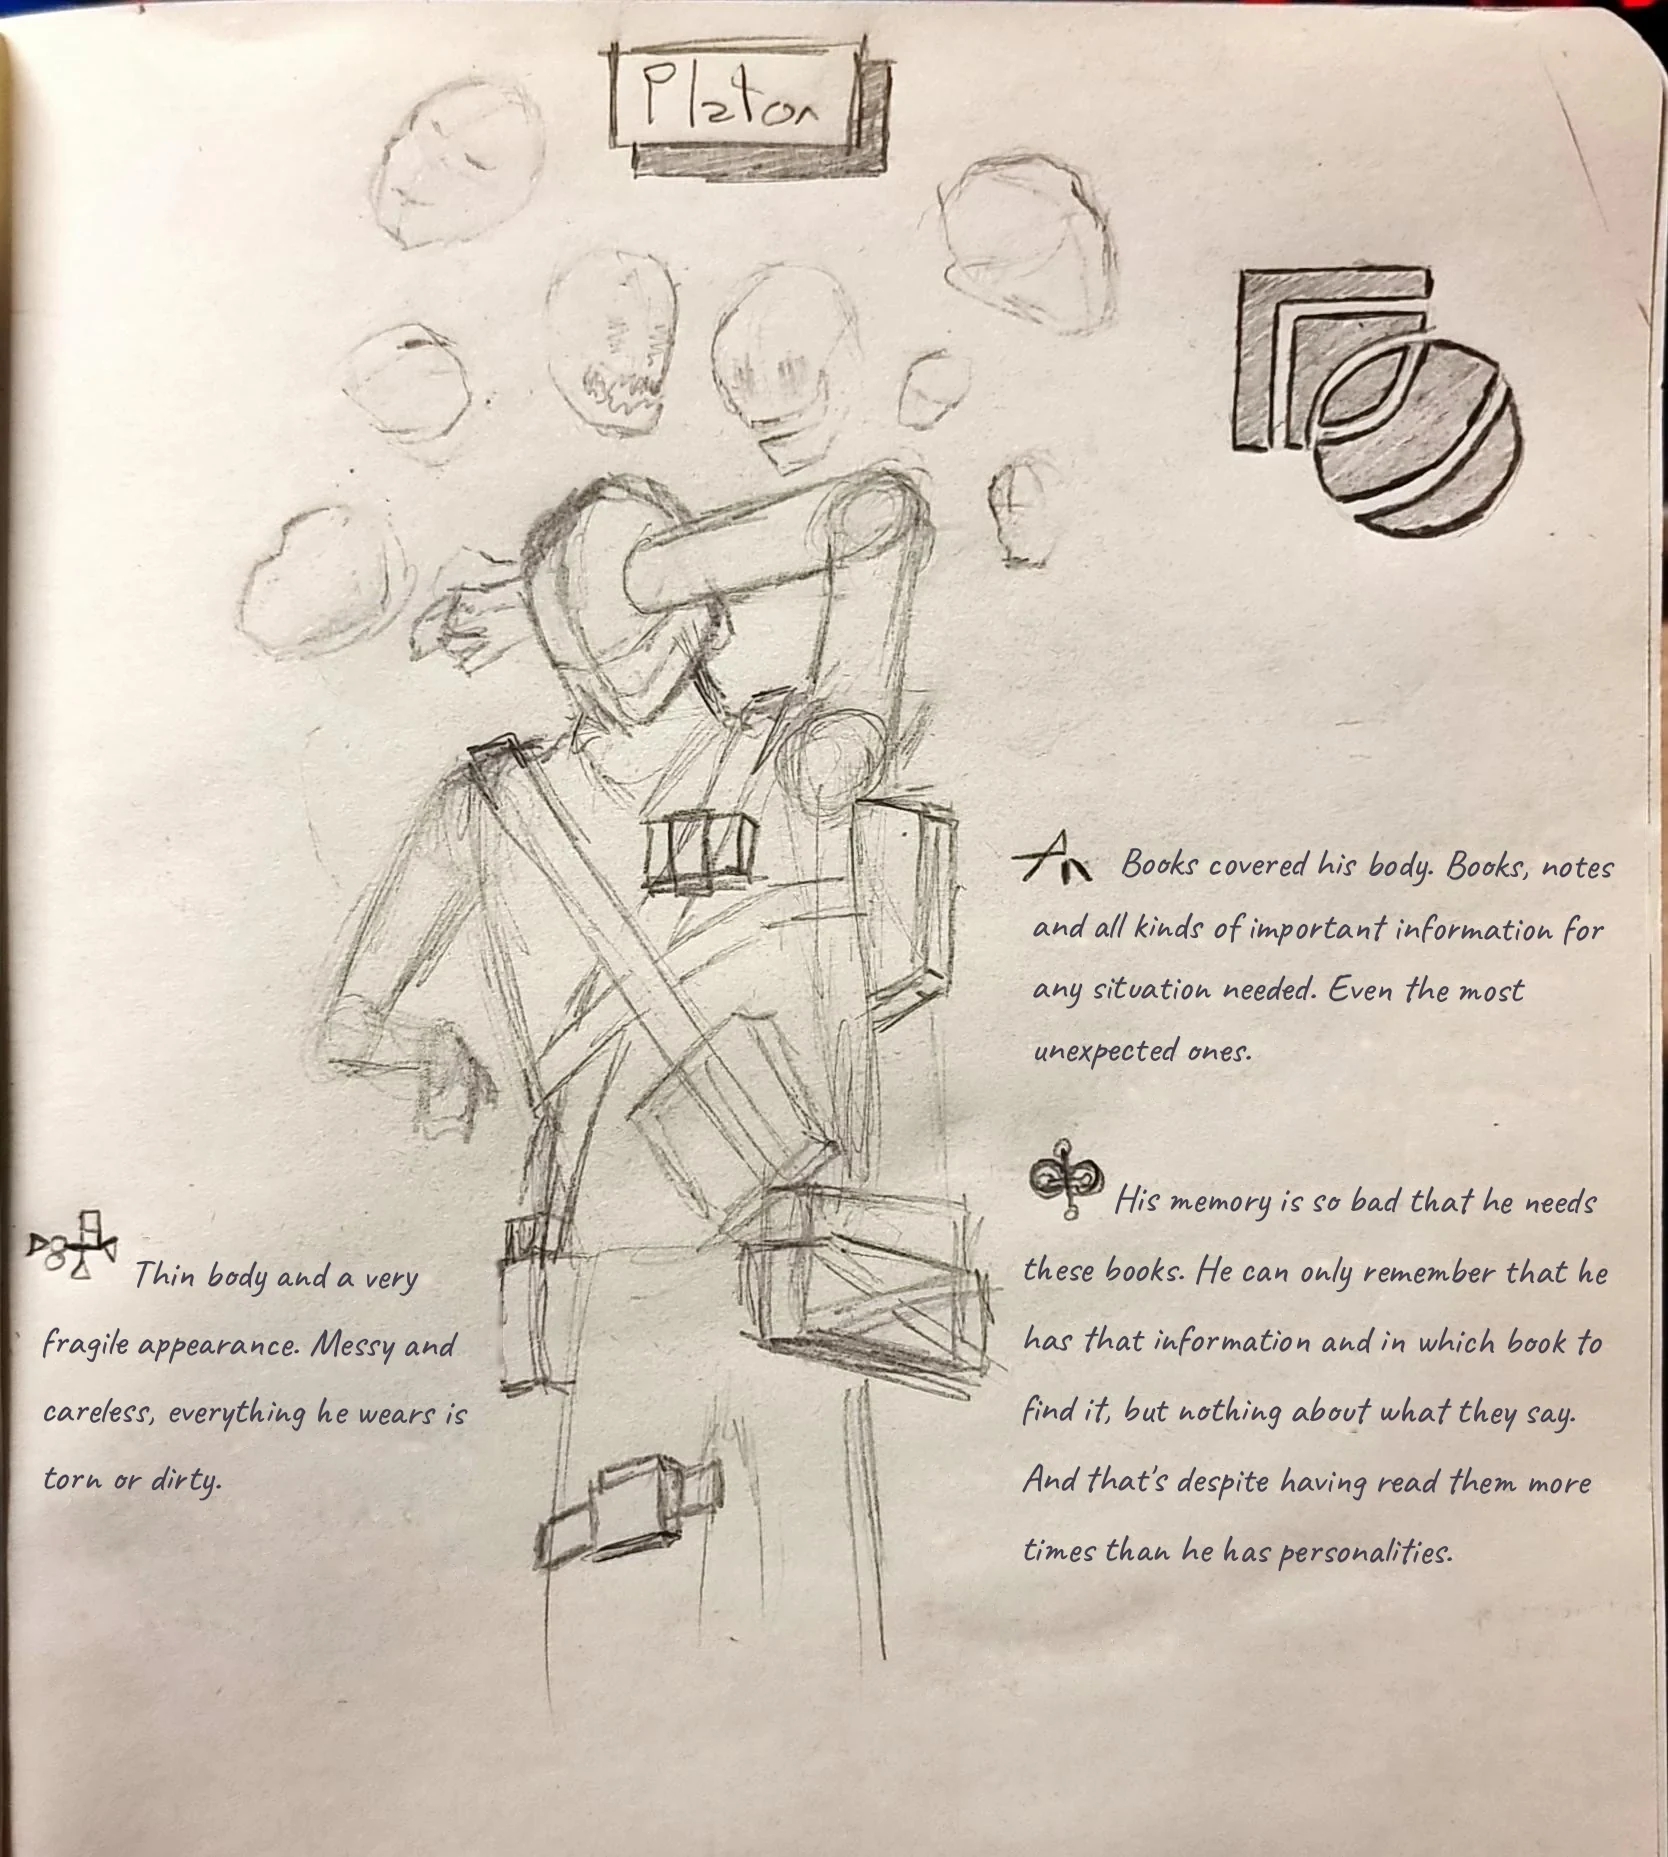
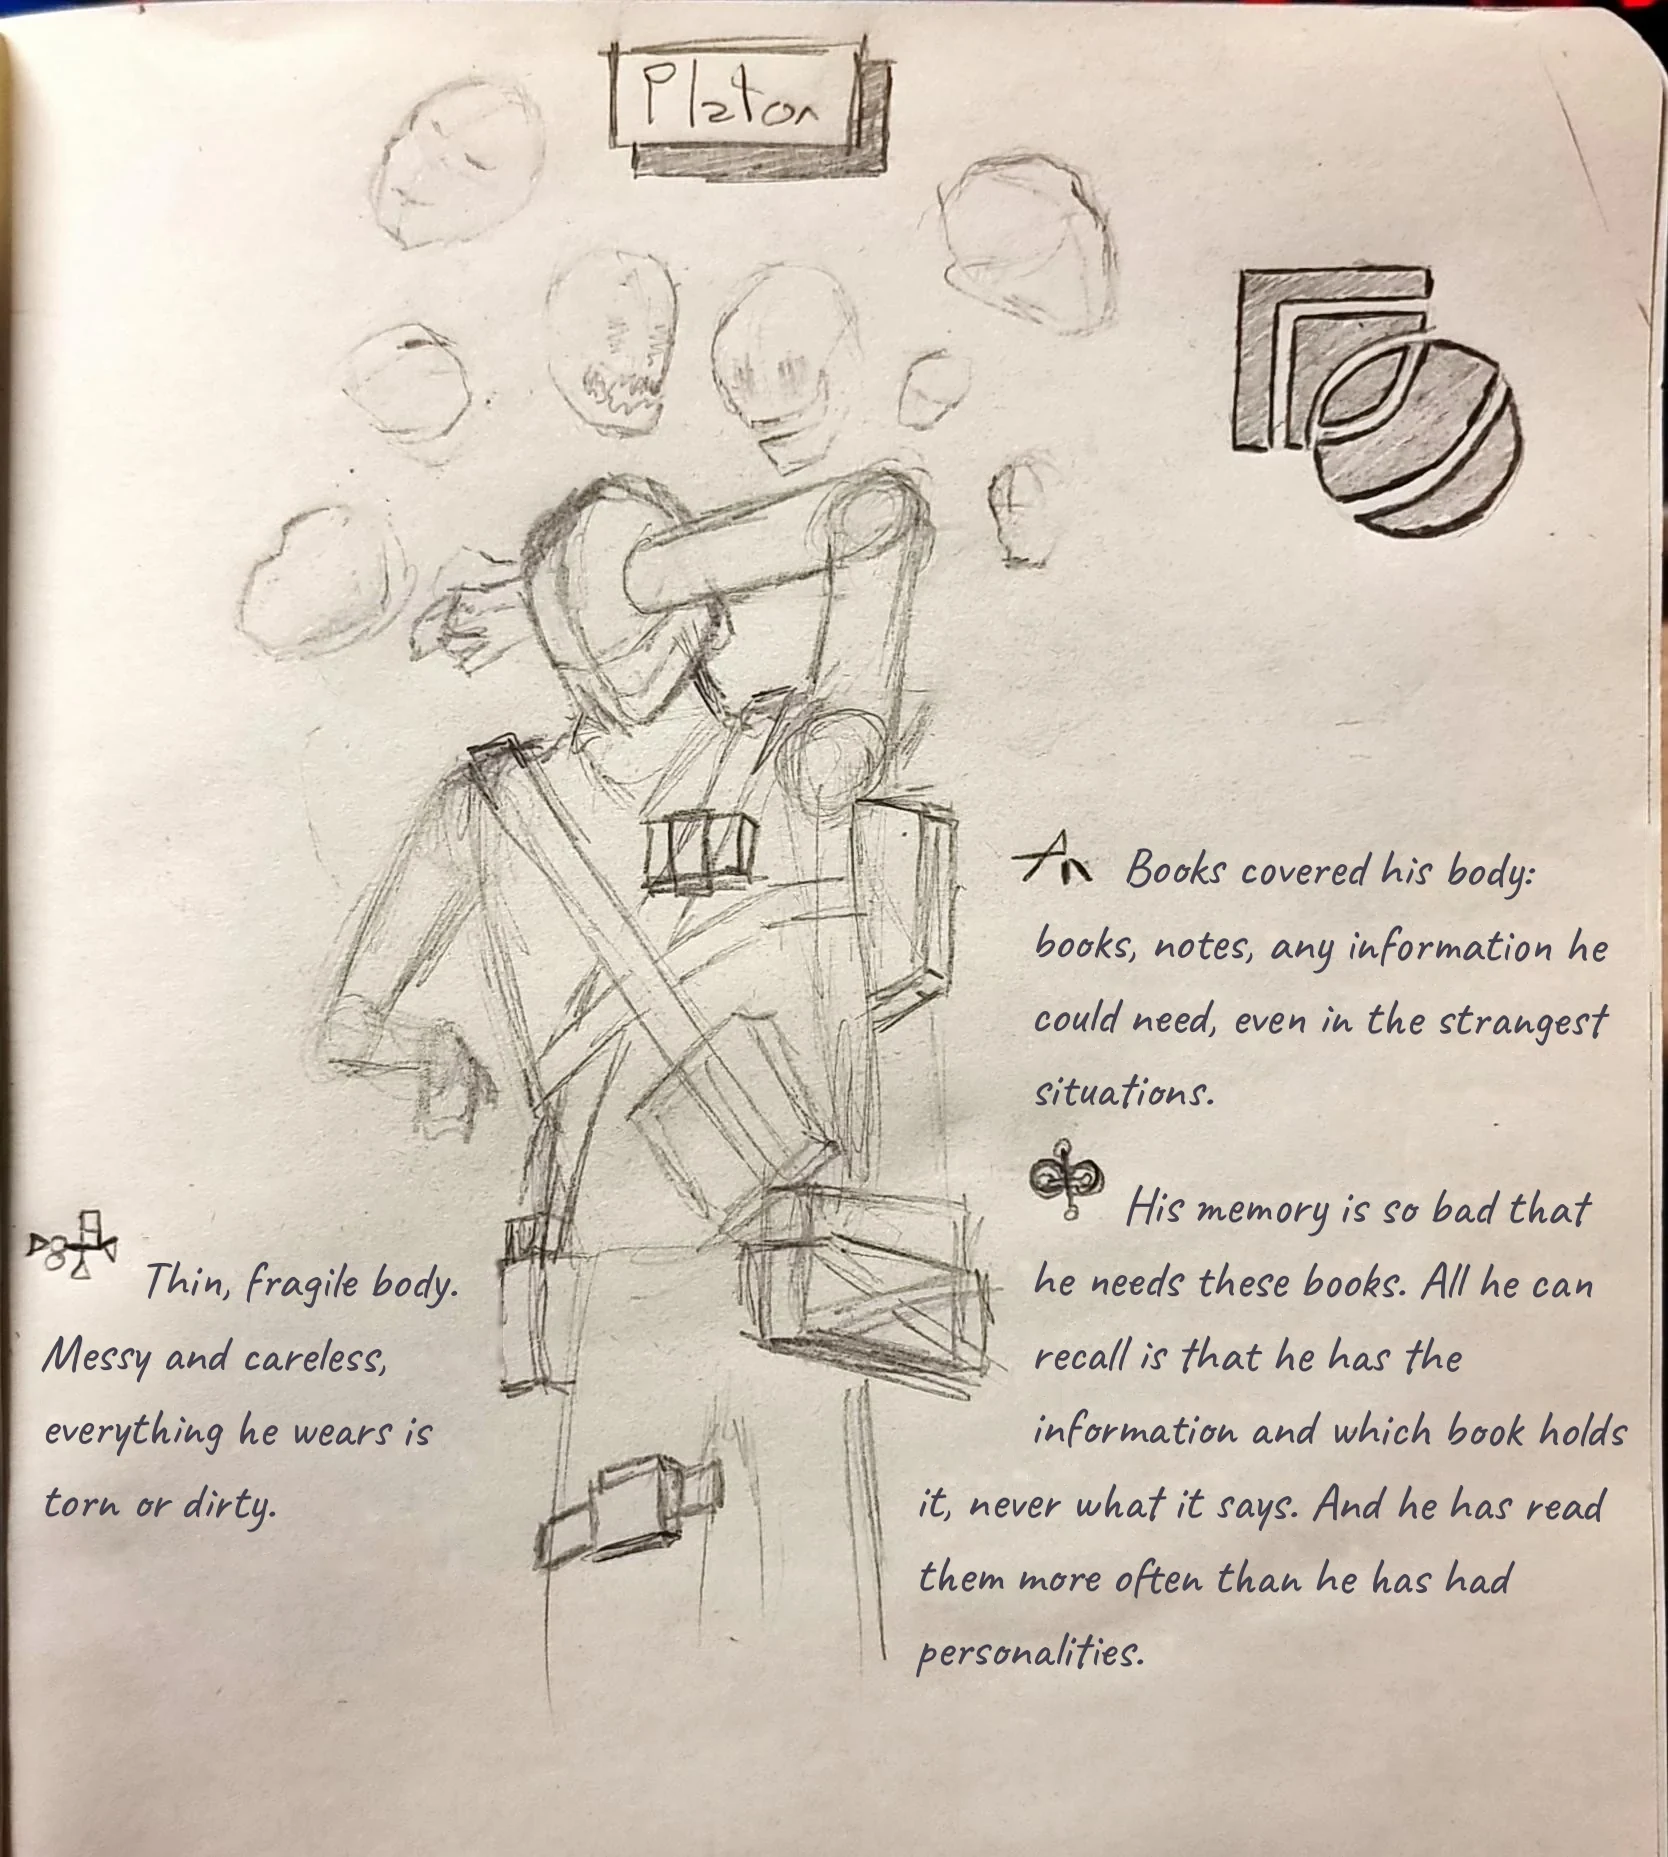
Rework English translations (Grimoire, Sandstorm, dark pages), new Grimoire lead image

Changed region(s): [[0.5612, 0.6247, 0.9664, 0.9058], [0.6235, 0.4373, 0.9664, 0.5934], [0.0312, 0.6871, 0.2806, 0.8121]]

diff --git a/index.html b/index.html
@@ -624,13 +624,14 @@ const penumbra = {
 const grimoire = {
   title: "Grimoire",
   summary: "A notebook of monsters and anomalies, designed from the start with a game design mindset.",
-  thumb: { image: encodeURI(GW + "Grimoire/grimoire09.webp") },
-  card:  { image: encodeURI(GW + "Grimoire/card.webp") },   // a crop of page 7
+  thumb: { image: encodeURI(GW + "Grimoire/lead.webp") },
+  leadSize: "small",
+  card:  { image: encodeURI(GW + "Grimoire/card.webp") },   // a crop of page 7 (same picture as the top of the project)
   details: [
     "From time to time, I like to add new pages to my Grimoire. When I create these monsters or anomalies, I already think of them with a game design mindset, as if they were monsters you could find not only in Stalker, but also in Roadside Picnic.",
-    "You will be able to see some of the pages where I try to create new original creatures, weapons and supernatural occurrences. The pages are in Spanish, but I would love to talk about them all.",
+    "You will be able to see some of the pages where I try to create new original creatures, weapons and supernatural occurrences. The pages were originally written in Spanish and are translated here, but I would love to talk about them all.",
   ],
-  media: nums(13).filter(n => n !== "09").map(n => ({ image: encodeURI(GW + `Grimoire/grimoire${n}.webp`) })),
+  media: nums(13).map(n => ({ image: encodeURI(GW + `Grimoire/grimoire${n}.webp`) })),
 };
 
 const content = {
